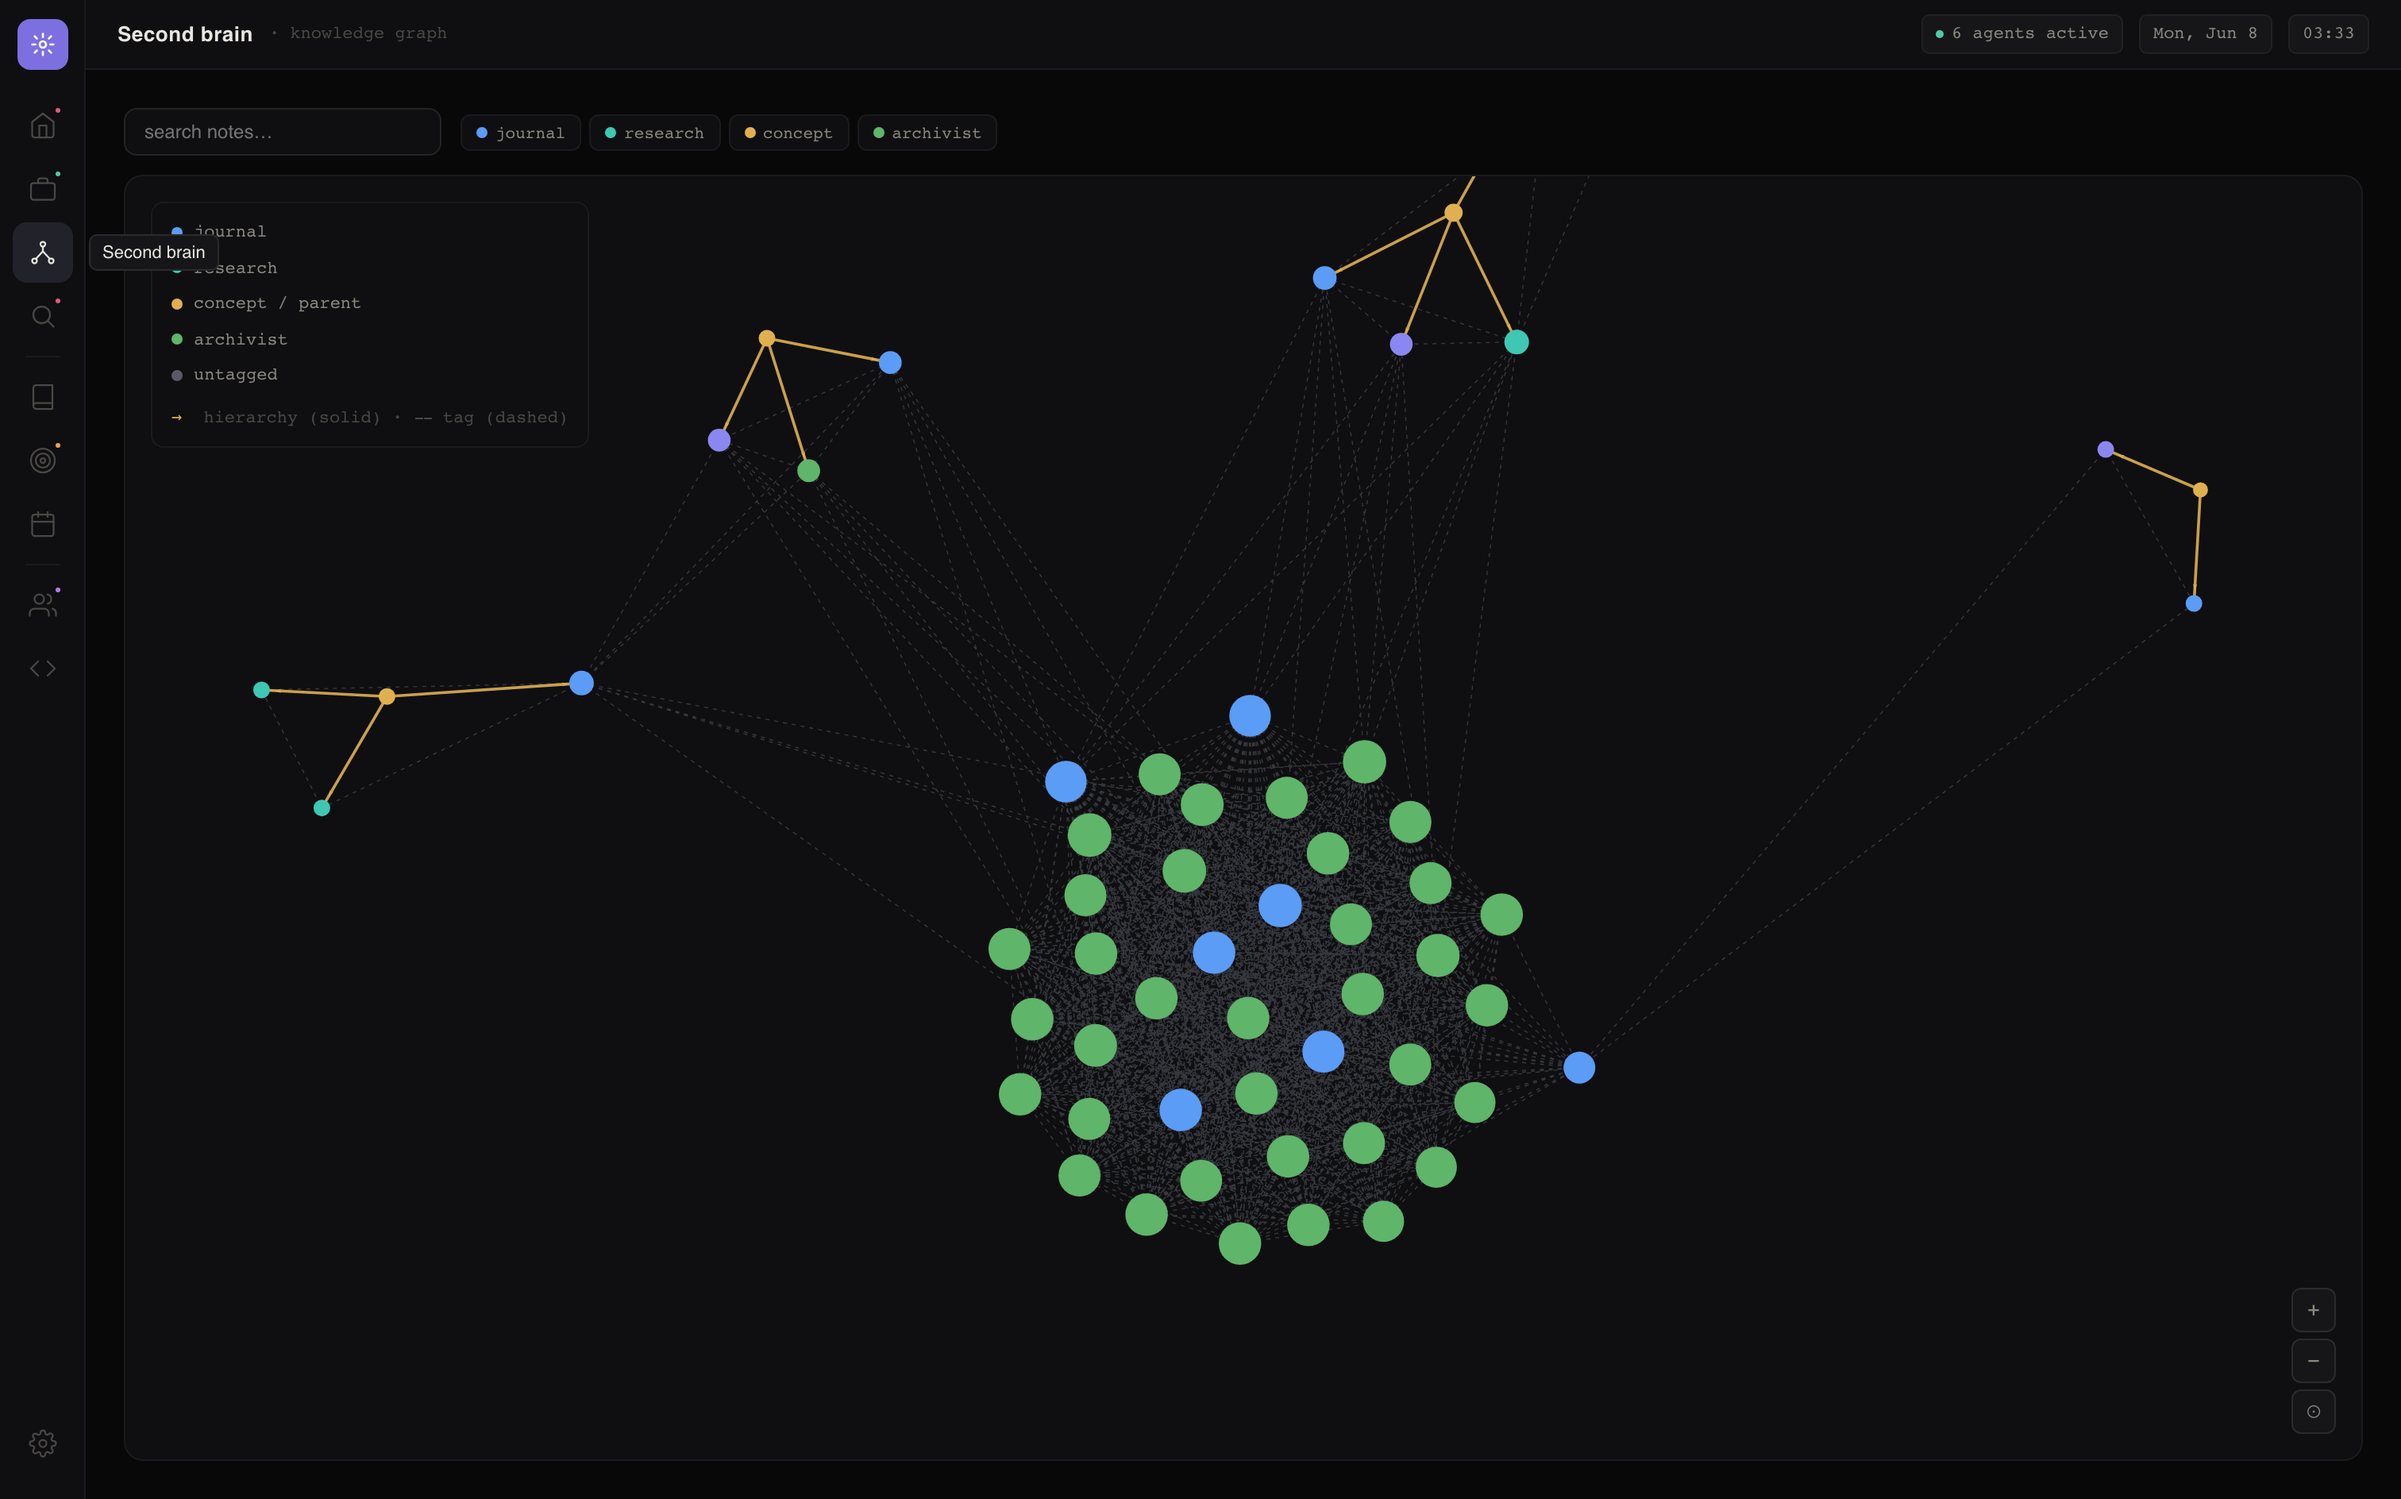
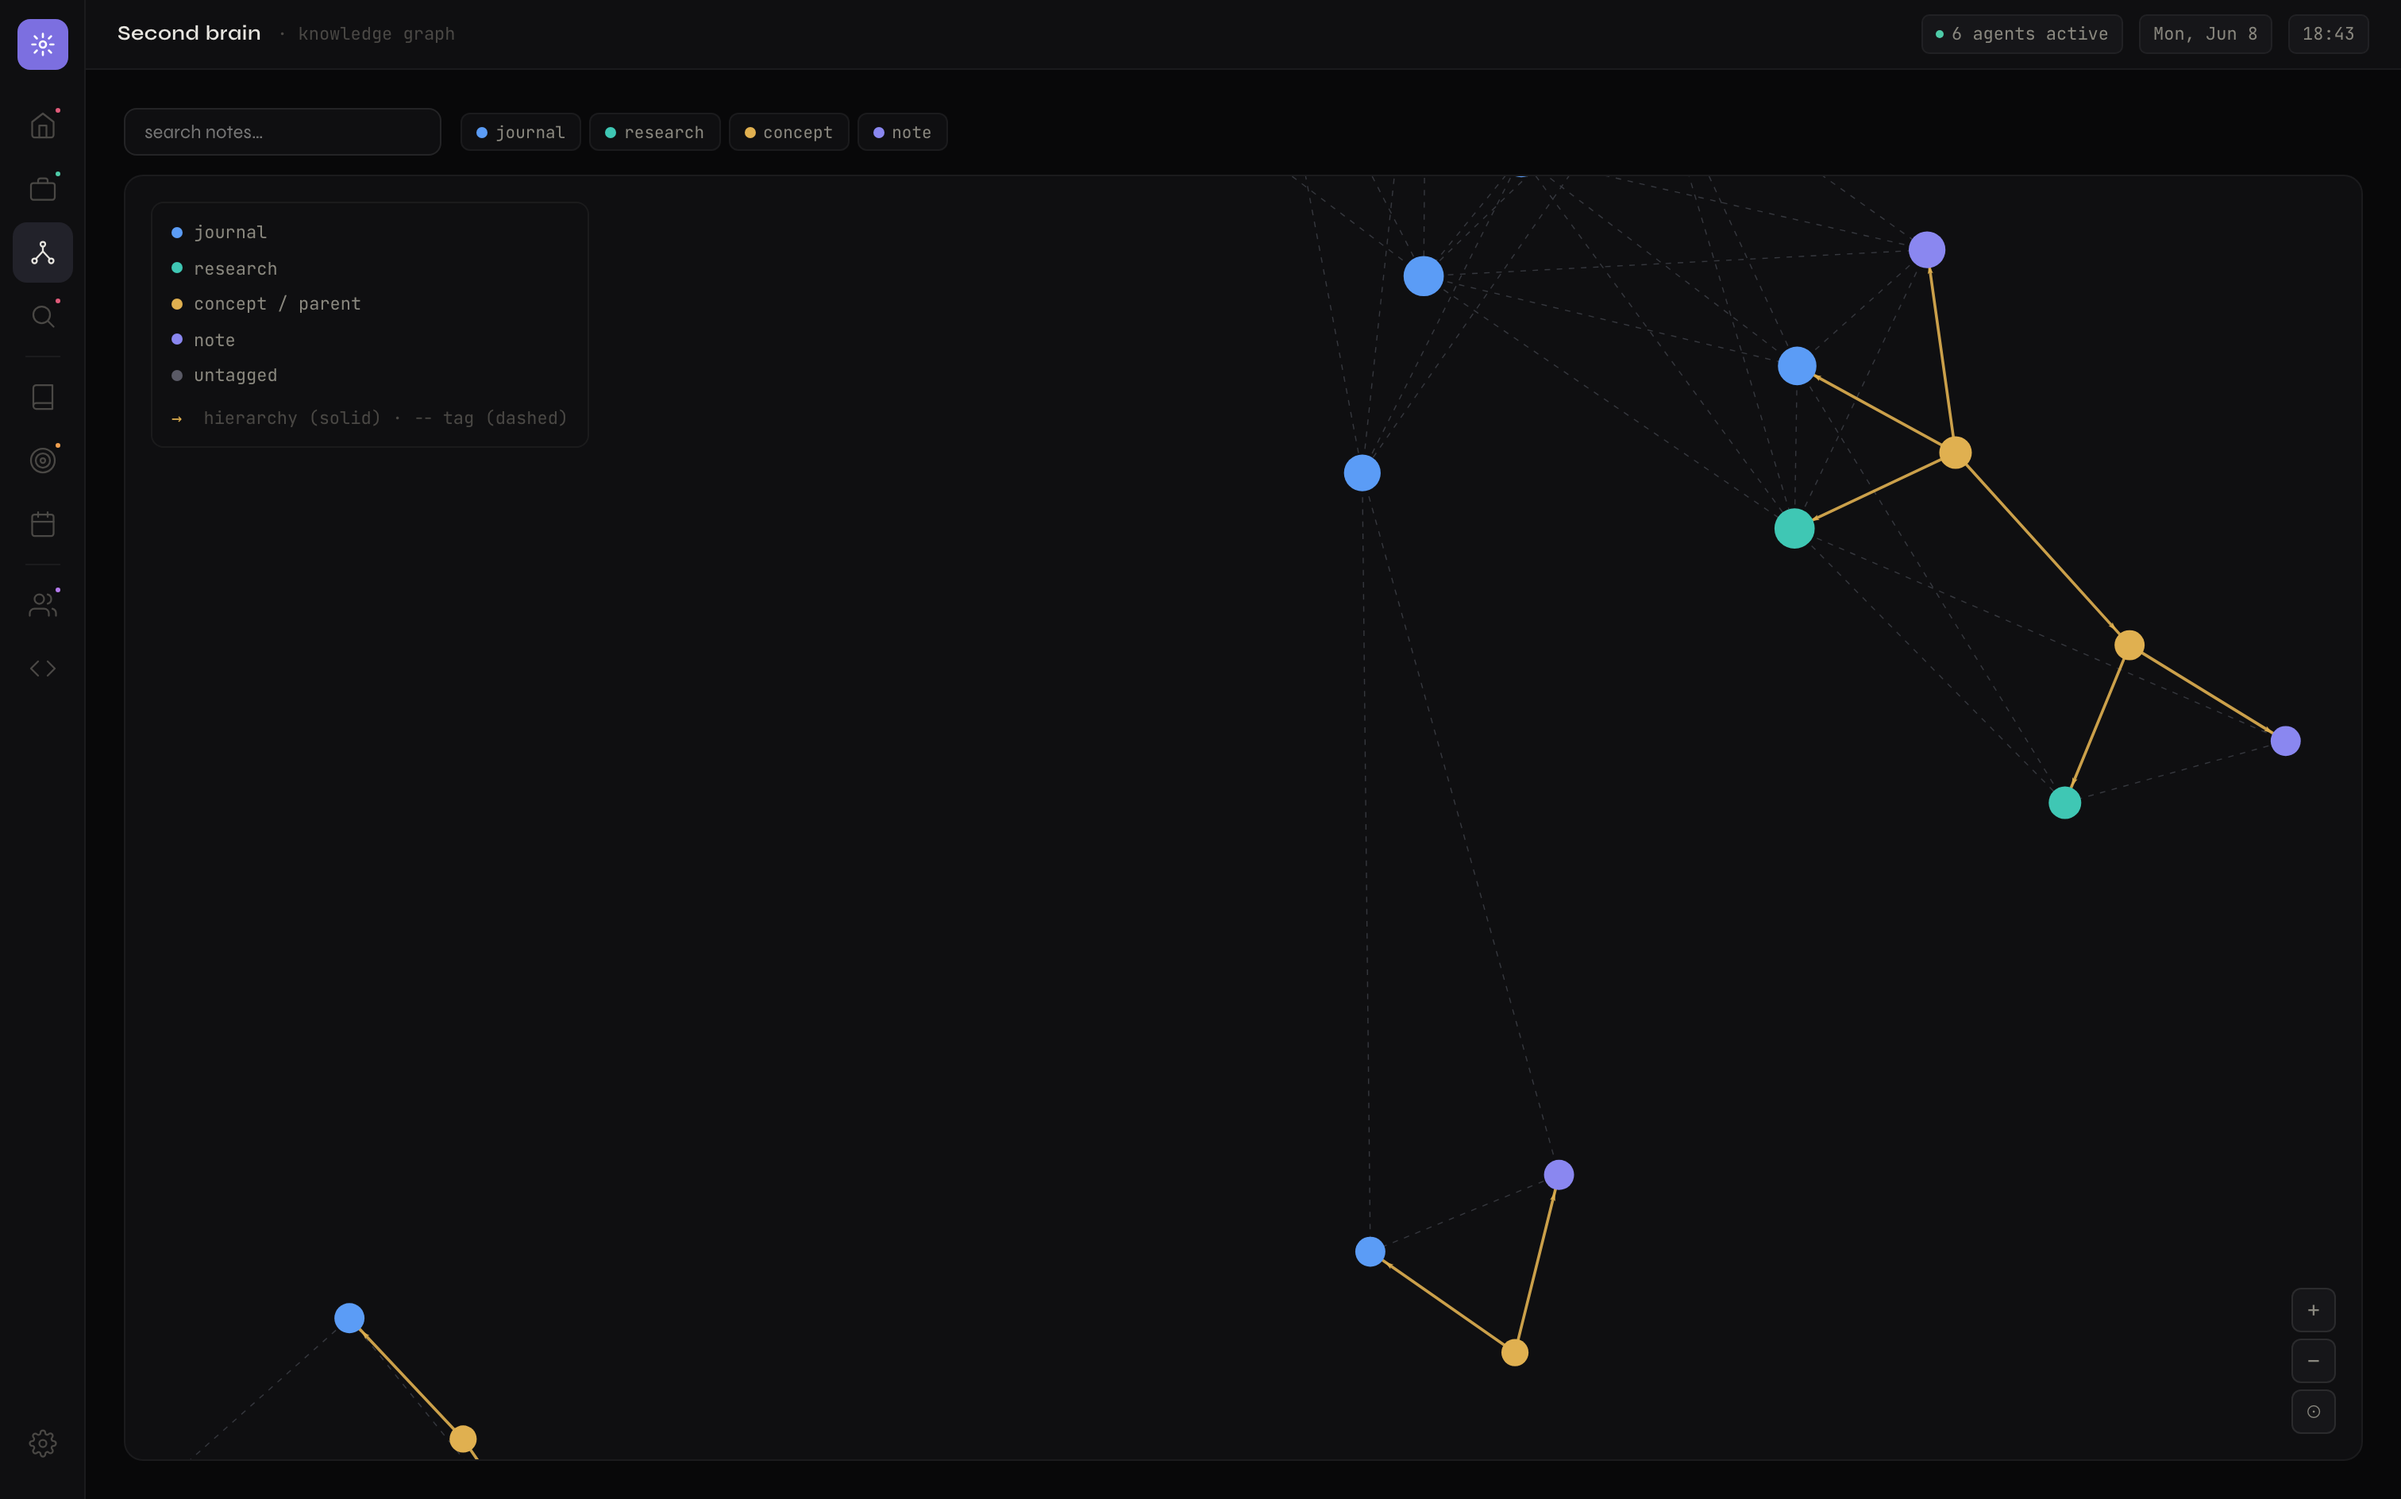
docs: reflect commits-out-of-graph + refresh graph screenshot

diff --git a/README.md b/README.md
@@ -2,7 +2,7 @@
 
 *A local-first personal AI operating system — specialized agents that share one memory.*
 
-> **Nexus runs entirely on your machine.** A set of AI agents share one brain — a single SQLite file holding your notes, goals, journal, jobs, inbox, and projects — so each agent acts on what the others know. An interview email doesn't just get flagged; it moves your job application to "interviewing." A commit doesn't just get logged; it becomes a node in your knowledge graph.
+> **Nexus runs entirely on your machine.** A set of AI agents share one brain — a single SQLite file holding your notes, goals, journal, jobs, inbox, and projects — so each agent acts on what the others know. An interview email doesn't just get flagged; it moves your job application to "interviewing." Your journal's themes quietly steer what news the morning brief brings you.
 
 The shared context **is** the product. Most AI assistants are a handful of disconnected chatbots; Nexus is a set of agents reading and writing the same memory.
 
@@ -16,7 +16,7 @@ The shared context **is** the product. Most AI assistants are a handful of disco
 - **Council of 5** — five AI personas debate your decisions, challenge each other, and land on a consensus.
 - **Accountability** — tracks goals, keeps streaks, sends a nightly streak-aware nudge.
 - **Morning brief** — curates a short daily news read from topics you pick and interests it learns from your notes.
-- **Project archivist** — watches your repos and turns commits into plain-English memory and graph nodes.
+- **Project archivist** — watches your repos and turns commits into a plain-English changelog you can actually read.
 - **Observability** — every agent run and Claude call is instrumented; a Settings panel shows run history, errors, next run, and estimated spend.
 
 **Local-only by design.** Nexus runs on `localhost`, is never exposed publicly, and ships as a repo you clone and point at your own API keys. Filesystem and inbox access are exactly why it stays on your machine.
@@ -47,7 +47,7 @@ Filter by track / level / status / city / match floor; sort by newest, match, or
 
 ### Second brain — the knowledge graph
 
-Every note (journal entry, research node, or archivist commit summary) is a **node**; two notes that share a tag get an **edge** — a force-directed graph you can pan, zoom, and click. On top of that flat associative web sits an optional **hierarchy**: *concept* anchors with directed parent→child edges. This is the memory the council and morning brief read from.
+Every note (journal entry, research node, or concept) is a **node**; two notes that share a tag get an **edge** — a force-directed graph you can pan, zoom, and click. The graph is curated on purpose: only notes worth revisiting live here (routine commits go to the Projects changelog, not the graph), so every node is worth clicking. On top of that flat associative web sits an optional **hierarchy**: *concept* anchors with directed parent→child edges. This is the memory the council and morning brief read from.
 
 ![Second brain — the knowledge graph](docs/screenshots/graph.png)
 
@@ -83,7 +83,7 @@ Ask about a decision or just rant. Five personas — **Marcus** (control), **Lyr
 
 ### Projects — the archivist
 
-Per-repo cards with an AI-written change log. The **archivist** polls `git log` (and watches each repo's `.git/logs/HEAD`), summarizes each commit into `{summary, why, impact}`, and turns it into a **tagged second-brain node** — so project history connects to journal themes by shared tags. Filesystem reach is sandboxed to `WATCHED_PROJECTS`.
+Per-repo cards with an AI-written change log. The **archivist** polls `git log` (and watches each repo's `.git/logs/HEAD`) and summarizes each commit into `{summary, why, impact}`. Commits live here as a readable changelog — they're deliberately *not* poured into the knowledge graph (routine commits aren't worth revisiting). Filesystem reach is sandboxed to `WATCHED_PROJECTS`.
 
 ![Projects — the archivist](docs/screenshots/projects.png)
 
@@ -115,7 +115,7 @@ Two local processes, one shared database:
                           └──────────────────────────┘
 ```
 
-**How the agents work together (the whole point).** Because every agent shares `nexus.db`, work flows between them: a recruiter email flips `jobs.status` to `interviewing`; "due Friday" in an email becomes a calendar event; your journal tags teach the brief what to curate and ground the council's advice; each commit becomes a tagged graph node; and the home dashboard aggregates all of it. The frontend never touches the DB directly — the agents stay the single source of truth.
+**How the agents work together (the whole point).** Because every agent shares `nexus.db`, work flows between them: a recruiter email flips `jobs.status` to `interviewing`; "due Friday" in an email becomes a calendar event; your journal tags teach the brief what to curate and ground the council's advice; and the home dashboard aggregates all of it. The frontend never touches the DB directly — the agents stay the single source of truth.
 
 ---
 
@@ -174,7 +174,7 @@ Open **http://localhost:5173** — Vite proxies `/api` to the backend.
 | **Council of 5** | Live | Five personas answer in parallel, challenge each other, and a consensus score is computed. Reads journal + goals. |
 | **Accountability** | Live | Tracks goals, maintains streaks, sends a nightly streak-aware nudge. |
 | **Morning brief** | Live | Curates ~6–9 stories from your chosen news topics + interests learned from notes/goals. Needs `NEWS_API_KEY`. |
-| **Project archivist** | Live | Summarizes each commit into `project_changes` + a tagged second-brain node. Sandboxed to `WATCHED_PROJECTS`. |
+| **Project archivist** | Live | Summarizes each commit into `project_changes` (the Projects-tab changelog). Sandboxed to `WATCHED_PROJECTS`. |
 | **Tagging agent** | Live | Behind the scenes: auto-tags every new note, reusing existing tags so the graph stays connected. |
 | **Research agent** | Live | Chat sessions that distill into one structured second-brain node (summary, concepts, conclusions, open questions, sources). |
 | **Observability** | Live | The plumbing: instruments every run + Claude call into `agent_runs`/`agent_usage`, exposed via `GET /api/observability` and Settings. |
